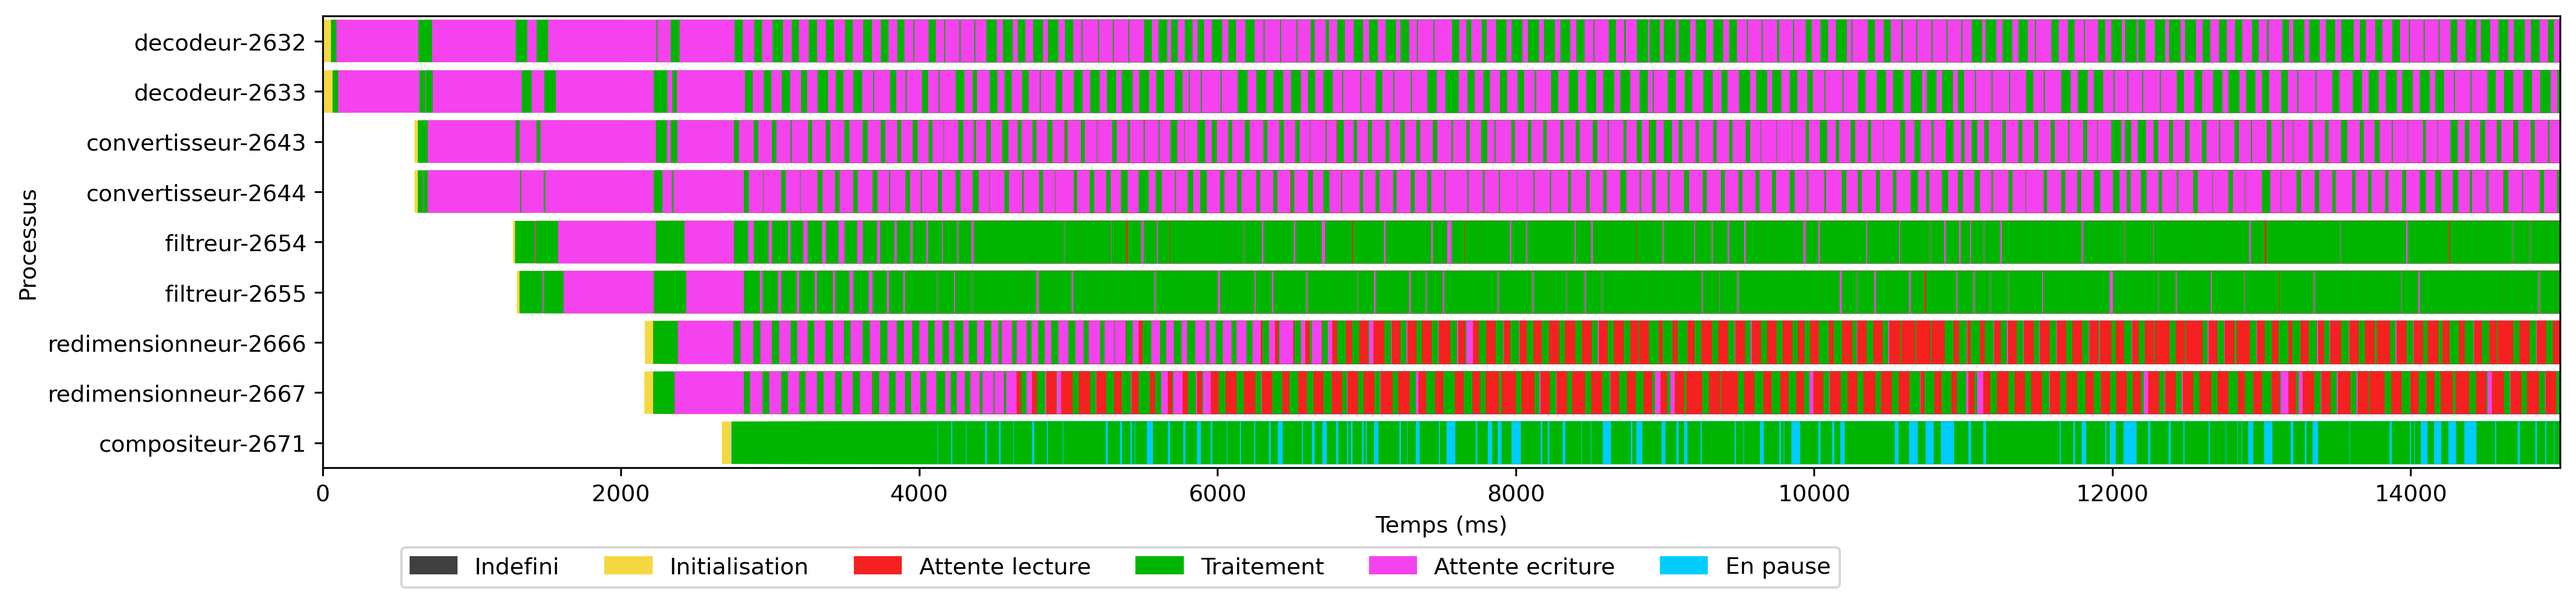
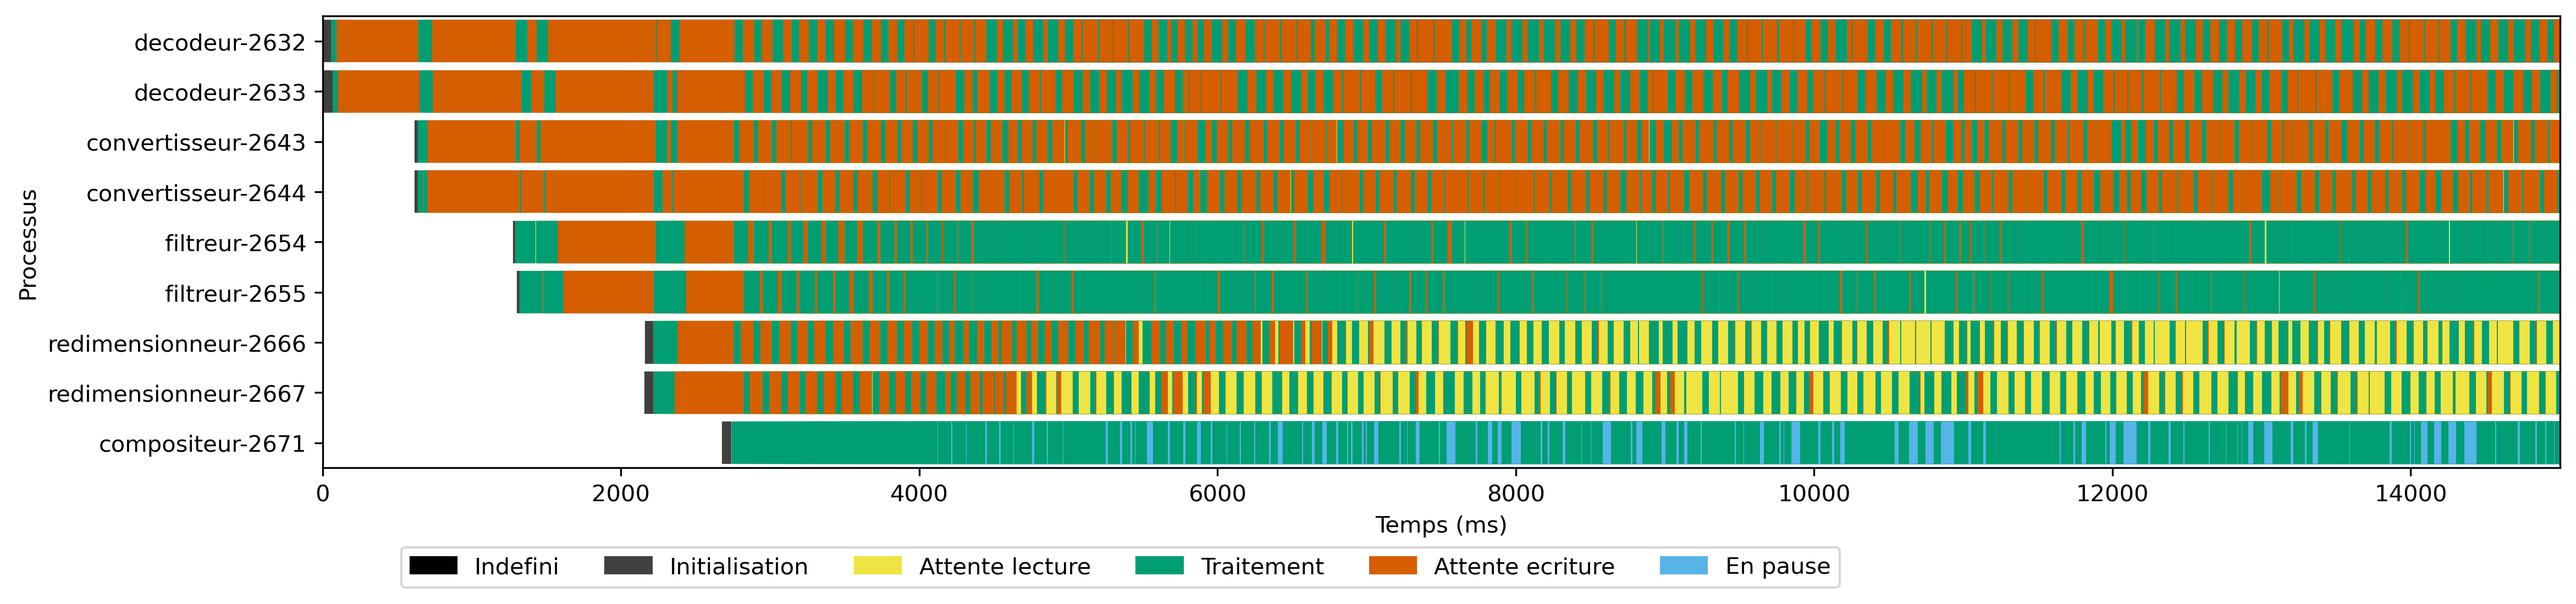
Meilleure robustesse du script de profilage (entre autres ne pas crasher si fichier invalide) et changement de la palette de couleur vers une version lisible par les daltoniens

diff --git a/src/creerProfilageImages.py b/src/creerProfilageImages.py
@@ -22,6 +22,14 @@ COULEUR_MAPPING = {
     40: "#f542ef",
     50: "#00CCFF",
 }
+COULEUR_MAPPING = {     # Voir https://jfly.uni-koeln.de/color/
+    0: "#000000",
+    10: "#404040",
+    20: "#F0E442",
+    30: "#009E73",
+    40: "#D55E00",
+    50: "#56B4E9",
+}
 NS_TO_MS = 1e6
 
 
@@ -58,6 +66,18 @@ if __name__ == "__main__":
         "Liste des derniers evenements par processus (voir le header utils.h pour la definition de chaque valeur numerique)"
     )
     for fpath in files:
+        # Validation
+        with open(fpath) as f:
+            d = f.readlines()
+            if len(d) < 3:
+                print(f"Attention, le fichier {fpath.stem} possède moins de 2 lignes et sera ignoré!")
+                continue
+            if any(len(ligne) < 10 for ligne in d[:-1]):
+                print(f"Attention, le fichier {fpath.stem} possède des lignes invalides (moins de 10 caractères) et sera ignoré!")
+                continue
+            if any(ligne.count(",") != 1 for ligne in d[:-1]):
+                print(f"Attention, le fichier {fpath.stem} possède des lignes invalides (sans caractère de séparation) et sera ignoré!")
+                continue
         data[fpath.stem] = np.loadtxt(fpath, delimiter=",")
         print(
             f"Dernier evenement pour {fpath.stem.partition('-')[2]} : {int(data[fpath.stem][-1,0])} au temps t={data[fpath.stem][-1,1]/1e9:.6f}"
@@ -87,8 +107,8 @@ if __name__ == "__main__":
             ax.add_patch(r)
 
     ax.set_yticks(
-        [(i + 0.5) for i in range(len(files))],
-        labels=[f.stem.partition("-")[2] for f in files],
+        [(i + 0.5) for i in range(len(data))],
+        labels=[k.partition("-")[2] for k in data.keys()],
     )
     graphpos = ax.get_position()
     ax.set_position(
